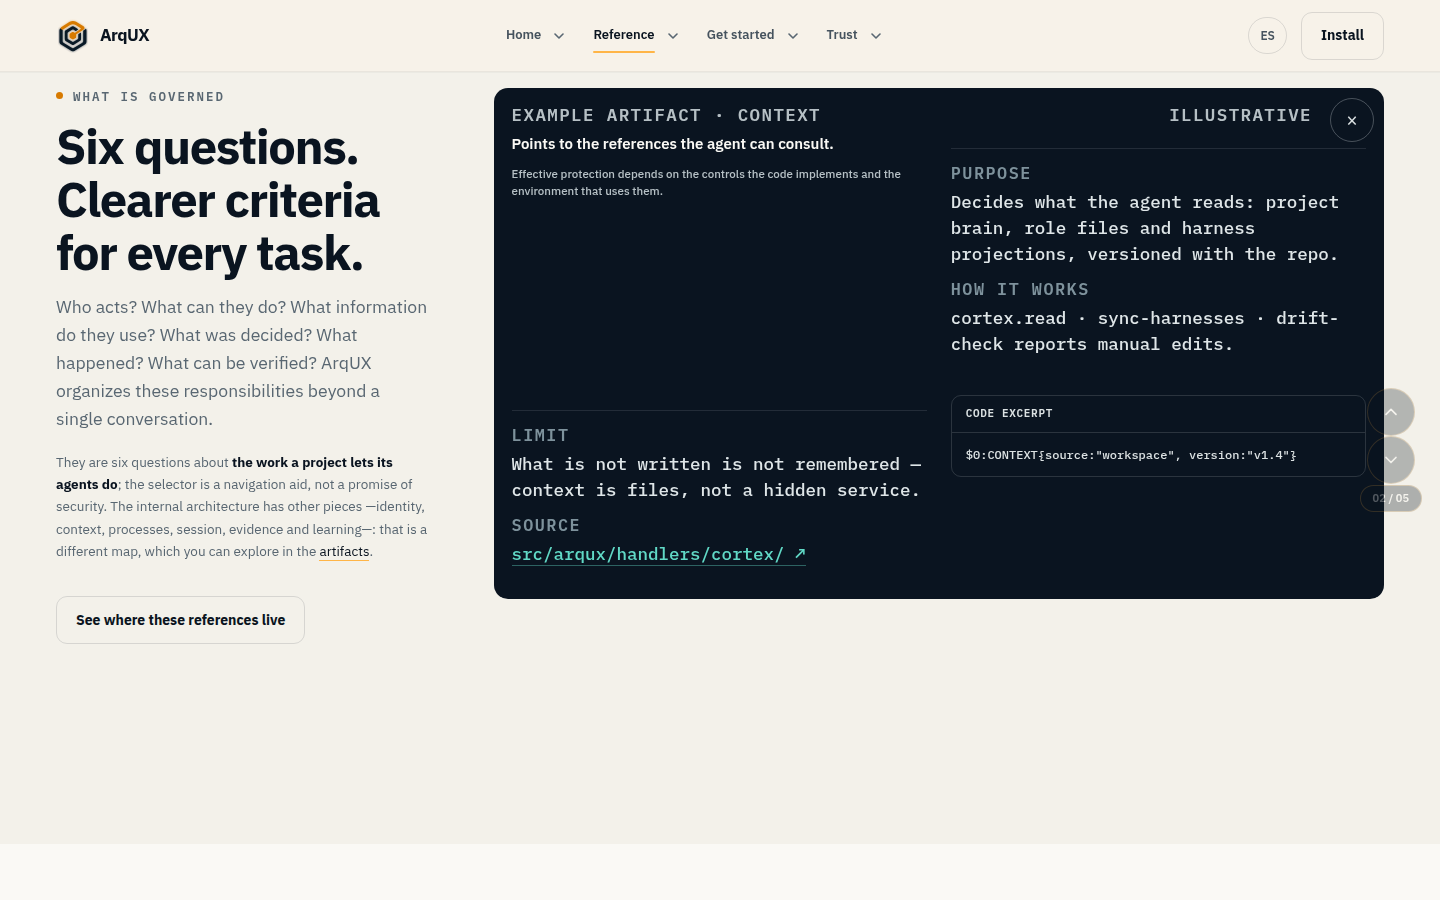
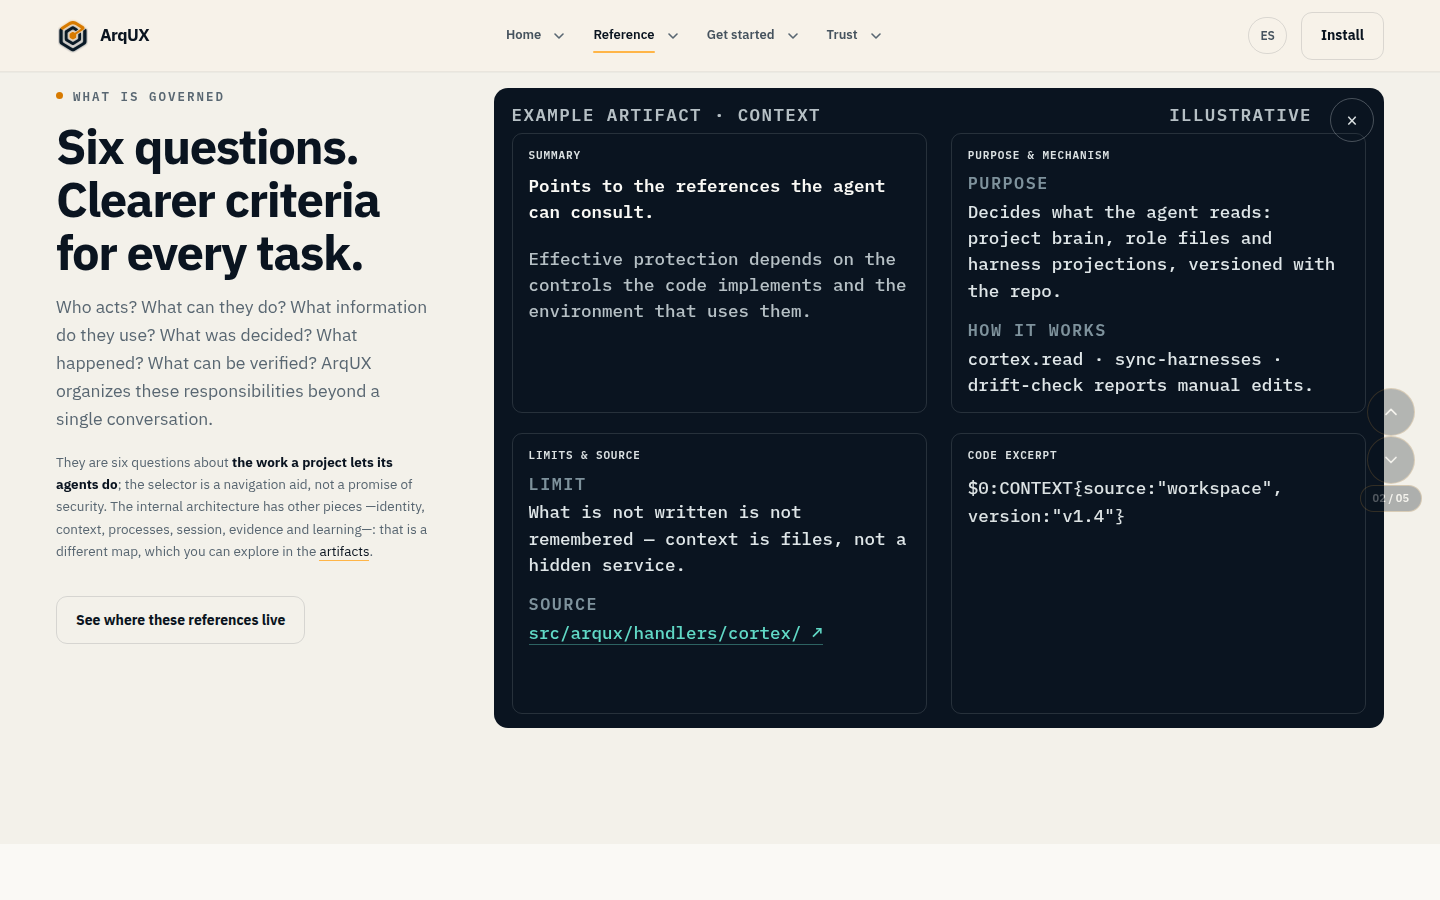
Detail card: four equivalent bordered quadrants with subtitles
Each .dim-q is now a bordered cell (1px subtle border, radius, padding)
with its own uppercase mono subtitle: Summary / Purpose & mechanism /
Limits & source / Code excerpt (ES mirrored). Body typography unified
to IBM Plex Mono at the card's 17.5px scale; the inner .dim-code box and
its label are removed in favor of the quadrant title. Rows stay equal
via grid-auto-rows:1fr + stretch; mobile keeps single-column flow.

Generated with [Devin](https://devin.ai)

diff --git a/es/referencia/index.html b/es/referencia/index.html
@@ -158,7 +158,7 @@
               <button type="button" class="dim-chip" data-dimension="4" aria-pressed="false">5 · Ejecución — ¿Qué se hizo?</button>
               <button type="button" class="dim-chip" data-dimension="5" aria-pressed="false">6 · Evidencia — ¿Qué puede comprobarse?</button>
             </div>
-            <div class="artifact-preview" role="region" aria-label="Detalle de la dimensión" tabindex="-1"><button class="dim-preview-close" type="button" aria-label="Cerrar detalle">×</button><div class="artifact-label"><span id="artifact-name">Artefacto de ejemplo · identidad</span><span id="artifact-status">Ilustrativo</span></div><div class="dim-grid"><div class="dim-q dim-q-summary"><p class="dim-benefit" id="dim-benefit"></p><p class="dim-footer">La protección efectiva depende de los controles que el código implementa y del entorno que los utiliza.</p></div><dl class="ficha-rows dim-q"><div><dt id="ficha-dt-fn">Para qué sirve</dt><dd id="ficha-fn">Vincula cada operación a un rol de agente declarado y a un contrato de comportamiento cargado desde el espacio de trabajo.</dd></div><div><dt id="ficha-dt-via">Cómo participa</dt><dd id="ficha-via"><code>identity.switch</code> · <code>arqux wake --identity</code> — la ejecución sin vínculo rechaza SESSION_UNBOUND.</dd></div></dl><dl class="ficha-rows dim-q"><div><dt id="ficha-dt-lim">Qué límite tiene</dt><dd id="ficha-lim">Declarado, no autenticado: acota la responsabilidad, no las credenciales.</dd></div><div><dt id="ficha-dt-src">Fuente</dt><dd><a id="ficha-src" href="https://github.com/FidelErnesto03/arqux/tree/390333913e0f071a89241187f36cc90289e7e043/src/arqux/handlers/identity" target="_blank" rel="noreferrer">src/arqux/handlers/identity/ ↗</a></dd></div></dl><div class="dim-q dim-q-code"><div class="dim-code"><span class="dim-code-label">Extracto de código</span><code id="artifact-code">$1:IDENTITY{role:"executor", scope:"project:alpha"}</code></div></div></div></div>
+            <div class="artifact-preview" role="region" aria-label="Detalle de la dimensión" tabindex="-1"><button class="dim-preview-close" type="button" aria-label="Cerrar detalle">×</button><div class="artifact-label"><span id="artifact-name">Artefacto de ejemplo · identidad</span><span id="artifact-status">Ilustrativo</span></div><div class="dim-grid"><div class="dim-q dim-q-summary"><p class="dim-q-title">Resumen</p><p class="dim-benefit" id="dim-benefit"></p><p class="dim-footer">La protección efectiva depende de los controles que el código implementa y del entorno que los utiliza.</p></div><div class="dim-q"><p class="dim-q-title">Propósito y mecanismo</p><dl class="ficha-rows"><div><dt id="ficha-dt-fn">Para qué sirve</dt><dd id="ficha-fn">Vincula cada operación a un rol de agente declarado y a un contrato de comportamiento cargado desde el espacio de trabajo.</dd></div><div><dt id="ficha-dt-via">Cómo participa</dt><dd id="ficha-via"><code>identity.switch</code> · <code>arqux wake --identity</code> — la ejecución sin vínculo rechaza SESSION_UNBOUND.</dd></div></dl></div><div class="dim-q"><p class="dim-q-title">Límites y fuente</p><dl class="ficha-rows"><div><dt id="ficha-dt-lim">Qué límite tiene</dt><dd id="ficha-lim">Declarado, no autenticado: acota la responsabilidad, no las credenciales.</dd></div><div><dt id="ficha-dt-src">Fuente</dt><dd><a id="ficha-src" href="https://github.com/FidelErnesto03/arqux/tree/390333913e0f071a89241187f36cc90289e7e043/src/arqux/handlers/identity" target="_blank" rel="noreferrer">src/arqux/handlers/identity/ ↗</a></dd></div></dl></div><div class="dim-q"><p class="dim-q-title">Extracto de código</p><code id="artifact-code" class="dim-q-code">$1:IDENTITY{role:"executor", scope:"project:alpha"}</code></div></div></div>
           </div>
         </div>
       </div>

diff --git a/reference/index.html b/reference/index.html
@@ -158,7 +158,7 @@
               <button type="button" class="dim-chip" data-dimension="4" aria-pressed="false">5 · Execution — What happened?</button>
               <button type="button" class="dim-chip" data-dimension="5" aria-pressed="false">6 · Evidence — What can be verified?</button>
             </div>
-            <div class="artifact-preview" role="region" aria-label="Dimension detail" tabindex="-1"><button class="dim-preview-close" type="button" aria-label="Close detail">×</button><div class="artifact-label"><span id="artifact-name">Example artifact · identity</span><span id="artifact-status">Illustrative</span></div><div class="dim-grid"><div class="dim-q dim-q-summary"><p class="dim-benefit" id="dim-benefit"></p><p class="dim-footer">Effective protection depends on the controls the code implements and the environment that uses them.</p></div><dl class="ficha-rows dim-q"><div><dt id="ficha-dt-fn">Purpose</dt><dd id="ficha-fn">Binds every operation to a declared agent role and behavioral contract loaded from the workspace.</dd></div><div><dt id="ficha-dt-via">How it works</dt><dd id="ficha-via"><code>identity.switch</code> · <code>arqux wake --identity</code> — unbound execution rejects SESSION_UNBOUND.</dd></div></dl><dl class="ficha-rows dim-q"><div><dt id="ficha-dt-lim">Limit</dt><dd id="ficha-lim">Declared, not authenticated — it scopes responsibility, not credentials.</dd></div><div><dt id="ficha-dt-src">Source</dt><dd><a id="ficha-src" href="https://github.com/FidelErnesto03/arqux/tree/390333913e0f071a89241187f36cc90289e7e043/src/arqux/handlers/identity" target="_blank" rel="noreferrer">src/arqux/handlers/identity/ ↗</a></dd></div></dl><div class="dim-q dim-q-code"><div class="dim-code"><span class="dim-code-label">Code excerpt</span><code id="artifact-code">$1:IDENTITY{role:"executor", scope:"project:alpha"}</code></div></div></div></div>
+            <div class="artifact-preview" role="region" aria-label="Dimension detail" tabindex="-1"><button class="dim-preview-close" type="button" aria-label="Close detail">×</button><div class="artifact-label"><span id="artifact-name">Example artifact · identity</span><span id="artifact-status">Illustrative</span></div><div class="dim-grid"><div class="dim-q dim-q-summary"><p class="dim-q-title">Summary</p><p class="dim-benefit" id="dim-benefit"></p><p class="dim-footer">Effective protection depends on the controls the code implements and the environment that uses them.</p></div><div class="dim-q"><p class="dim-q-title">Purpose &amp; mechanism</p><dl class="ficha-rows"><div><dt id="ficha-dt-fn">Purpose</dt><dd id="ficha-fn">Binds every operation to a declared agent role and behavioral contract loaded from the workspace.</dd></div><div><dt id="ficha-dt-via">How it works</dt><dd id="ficha-via"><code>identity.switch</code> · <code>arqux wake --identity</code> — unbound execution rejects SESSION_UNBOUND.</dd></div></dl></div><div class="dim-q"><p class="dim-q-title">Limits &amp; source</p><dl class="ficha-rows"><div><dt id="ficha-dt-lim">Limit</dt><dd id="ficha-lim">Declared, not authenticated — it scopes responsibility, not credentials.</dd></div><div><dt id="ficha-dt-src">Source</dt><dd><a id="ficha-src" href="https://github.com/FidelErnesto03/arqux/tree/390333913e0f071a89241187f36cc90289e7e043/src/arqux/handlers/identity" target="_blank" rel="noreferrer">src/arqux/handlers/identity/ ↗</a></dd></div></dl></div><div class="dim-q"><p class="dim-q-title">Code excerpt</p><code id="artifact-code" class="dim-q-code">$1:IDENTITY{role:"executor", scope:"project:alpha"}</code></div></div></div>
           </div>
         </div>
       </div>

diff --git a/assets/style.css b/assets/style.css
@@ -78,16 +78,13 @@ h3{font-size:1.1rem;font-weight:650;letter-spacing:-.02em;margin-bottom:8px}.lea
 .hex-visual.is-detail .artifact-preview{opacity:1;visibility:visible;transform:none;pointer-events:auto}
 .hex-visual>.artifact-preview{justify-self:stretch}
 .artifact-preview .artifact-label{padding-right:54px}
-.dim-benefit{margin:0 0 10px;font:600 15px/1.5 var(--sans);color:var(--paper-100)}
-.dim-footer{margin:0 0 12px;font:500 11.5px/1.5 var(--sans);color:var(--mist-500)}
-.dim-code{margin-top:12px;border:1px solid rgba(220,226,227,.16);border-radius:10px;overflow:hidden}
-.dim-code-label{display:block;padding:10px 14px;border-bottom:1px solid rgba(220,226,227,.16);font:600 11px/1.4 var(--mono);letter-spacing:.06em;text-transform:uppercase;color:var(--mist-300)}
-.dim-code code{display:block;padding:12px 14px;font:500 12px/1.6 var(--mono);color:var(--mist-300);white-space:pre-wrap;overflow-wrap:anywhere}
-.dim-grid{display:grid;grid-template-columns:1fr 1fr;gap:20px 24px}
-.dim-q{min-width:0}
+.dim-benefit{margin:0 0 10px;font:600 17.5px/1.5 var(--mono);color:var(--paper-100)}
+.dim-footer{margin:0;font:500 17.5px/1.5 var(--mono);color:var(--mist-500)}
+.dim-grid{display:grid;grid-template-columns:1fr 1fr;grid-auto-rows:1fr;gap:20px 24px}
+.dim-q{min-width:0;align-self:stretch;height:100%;display:flex;flex-direction:column;gap:10px;padding:14px 16px;border:1px solid rgba(220,226,227,.14);border-radius:10px;box-sizing:border-box}
+.dim-q-title{margin:0;font:600 11px/1.4 var(--mono);letter-spacing:.08em;text-transform:uppercase;color:var(--mist-300)}
 .dim-q .ficha-rows{display:grid;grid-template-columns:1fr;gap:16px;margin:0;padding:0;border-top:0}
-.dim-q .dim-code{margin-top:0}
-.dim-q-summary .dim-footer{margin-bottom:0}
+.dim-q-code{display:block;font:500 17.5px/1.6 var(--mono);color:var(--mist-300);white-space:pre-wrap;overflow-wrap:anywhere}
 .dim-preview-close{position:absolute;right:10px;top:10px;width:44px;height:44px;display:grid;place-items:center;border:1px solid rgba(220,226,227,.3);border-radius:50%;background:transparent;color:var(--mist-300);font:400 20px/1 var(--sans);cursor:pointer}
 .dim-preview-close:hover{border-color:var(--amber-500);color:var(--amber-500)}
 .dim-preview-close:focus-visible{outline:2px solid var(--amber-500);outline-offset:3px}.artifact-label{display:flex;align-items:center;justify-content:space-between;gap:10px;color:var(--mist-500);font:600 10px/1.2 var(--mono);text-transform:uppercase;letter-spacing:.08em;margin-bottom:8px}
@@ -522,7 +519,7 @@ body.page-reference .section-nav{display:block}
   .dim-chip:focus-visible{outline:3px solid var(--ink-950);outline-offset:2px;box-shadow:0 0 0 6px var(--amber-500)}
   .hex-visual .artifact-preview{position:relative;display:none;max-height:none;overflow:visible;margin-top:14px;justify-self:stretch;width:100%}
   .hex-visual.is-detail .artifact-preview{display:block}
-  .dim-grid{grid-template-columns:1fr;gap:16px}
+  .dim-grid{grid-template-columns:1fr;grid-auto-rows:auto;gap:16px}
   .compat-entry{grid-template-columns:1fr;gap:26px}
   .compat-routes{grid-template-columns:1fr}
 }
